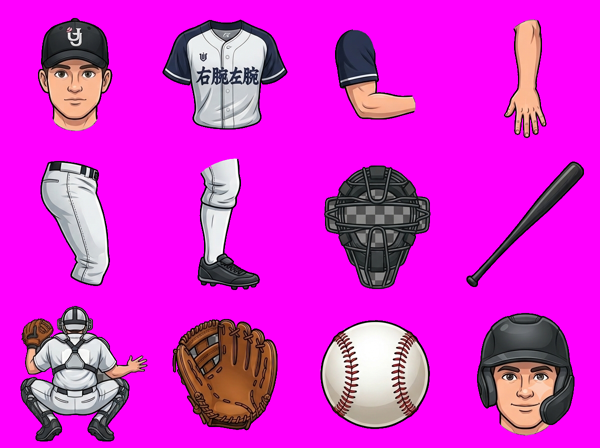
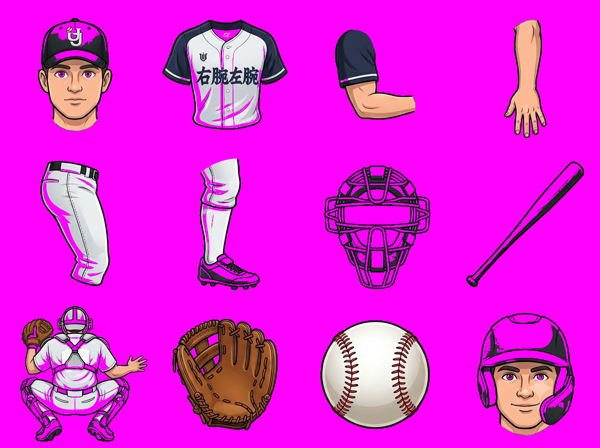
chore: 파츠 시트 파이프라인 — 배경 벗기기 · 자동 슬라이싱
제미나이는 "투명 배경 PNG" 를 달라고 하면 투명해 보이는 회색 체커보드를
그려서 준다. 알파는 전부 255 다. 그대로 쓰면 인물 뒤에 격자가 따라다닌다.

  strip.js — 테두리에서 체커보드 색만 타고 번져 들어가며 지운다.
             흰 유니폼은 검은 외곽선에 막혀서 안 지워진다.
             포수 마스크 창살처럼 둘러싸인 구멍은 따로 뚫는다.
  slice.js — 파츠 위치를 알파 연결성분으로 직접 찾는다. 격자 크기를
             가정하지 않는다 (1200x900 이라고 해놓고 896 이 왔다).

파츠 12개 좌표 확정:
  머리(모자) · 몸통 · 윗팔 · 아랫팔+손 · 허벅지 · 종아리+신발
  포수 마스크 · 배트 · 포수(뒷모습) · 글러브 · 공 · 머리(검투사 헬멧)

아직 index.html 에 넣지 않았다. mvGuy 를 관절 구조로 바꾸는 게 다음이다.

Claude-Session: https://claude.ai/code/session_019yt8Yztf8yMxy3gJquoaWz

diff --git a/art/slice.js b/art/slice.js
@@ -47,11 +47,14 @@ for(let sy=0;sy<H;sy++)for(let sx=0;sx<W;sx++){
 console.log(`덩어리 ${blobs.length}개 찾음`);
 
 /* ---- 가까운 덩어리끼리 묶는다 (신발이 다리와 떨어져 나오는 경우) ---- */
-const GAP=Math.round(Math.min(W,H)*0.035);
+/* 간격은 좁게 잡는다. 넓게 잡으면 옆 칸 파츠까지 한 덩어리로 붙는다 —
+   처음에 0.035*폭(31px)으로 잡았다가 12개를 4개로 붙여버렸다.
+   붙여야 할 것은 신발과 다리처럼 거의 닿아 있는 것뿐이다.          */
+const GAP=8;
 const near=(a,b)=>{
-  const ax2=a.x+a.w+GAP, ay2=a.y+a.h+GAP;
-  const bx2=b.x+b.w+GAP, by2=b.y+b.h+GAP;
-  return !(ax2<b.x-GAP||bx2<a.x-GAP||ay2<b.y-GAP||by2<a.y-GAP);
+  const gx=Math.max(a.x,b.x)-Math.min(a.x+a.w,b.x+b.w);   // 음수면 겹친다
+  const gy=Math.max(a.y,b.y)-Math.min(a.y+a.h,b.y+b.h);
+  return gx<=GAP && gy<=GAP;
 };
 let merged=true;
 while(merged){
@@ -80,12 +83,14 @@ rows.forEach(r=>r.items.sort((a,b)=>a.x-b.x));
 const order=[].concat(...rows.map(r=>r.items));
 
 /* ---- 이름 붙이기 (제미나이에게 준 배치 순서) ---- */
+/* 두 번째 시트에서 배치가 살짝 바뀌었다 — 2행 3번이 검정 글러브에서
+   포수 마스크로, 3행 2번이 야수용 갈색 글러브가 됐다.              */
 const KEYS=['head_cap','torso','uarm','farm',
-            'thigh','shin','glove','bat',
-            'catcher','mitt','ball','head_helm'];
+            'thigh','shin','mask','bat',
+            'catcher','glove','ball','head_helm'];
 const KO={head_cap:'머리(모자)',torso:'몸통',uarm:'윗팔',farm:'아랫팔+손',
-  thigh:'허벅지',shin:'종아리+신발',glove:'글러브',bat:'배트',
-  catcher:'포수',mitt:'미트',ball:'공',head_helm:'머리(헬멧)'};
+  thigh:'허벅지',shin:'종아리+신발',mask:'포수 마스크',bat:'배트',
+  catcher:'포수(뒷모습)',glove:'글러브',ball:'공',head_helm:'머리(헬멧)'};
 
 console.log(`\n줄 ${rows.length}개 · 줄마다 ${rows.map(r=>r.items.length).join('/')}개`);
 const out={sheet:{w:W,h:H}, parts:{}};

diff --git a/art/strip.js b/art/strip.js
@@ -60,6 +60,29 @@ while(head<tail){
   if(x>0)push(x-1,y); if(x<W-1)push(x+1,y);
   if(y>0)push(x,y-1); if(y<H-1)push(x,y+1);
 }
+/* 테두리에서 못 닿는 안쪽 구멍도 뚫는다 — 포수 마스크 창살 사이 같은 곳.
+   완전히 둘러싸여 있어서 번짐이 못 들어간다. 체커보드 색이면 배경이다. */
+let holes=0;
+for(let p=0;p<W*H;p++){ if(bg[p]||!isBg(p*4)) continue;
+  const y0=(p/W)|0, x0=p%W;
+  let h2=0,t2=0, ok=true, mem=[];
+  qx[t2]=x0; qy[t2]=y0; t2++; bg[p]=1; mem.push(p);
+  while(h2<t2){
+    const x=qx[h2],y=qy[h2]; h2++;
+    for(let k=0;k<4;k++){
+      const nx=x+(k===0?-1:k===1?1:0), ny=y+(k===2?-1:k===3?1:0);
+      if(nx<0||ny<0||nx>=W||ny>=H) continue;
+      const q=ny*W+nx;
+      if(bg[q]||!isBg(q*4)) continue;
+      bg[q]=1; mem.push(q); qx[t2]=nx; qy[t2]=ny; t2++;
+    }
+    if(t2>W*H-1){ ok=false; break; }
+  }
+  if(ok && mem.length>=25) holes+=mem.length;
+  else mem.forEach(q=>bg[q]=0);
+}
+if(holes) console.log(`안쪽 구멍 ${holes}개도 뚫었다`);
+
 let n=0; for(let p=0;p<W*H;p++) if(bg[p])n++;
 console.log(`배경으로 판정 ${n}개 (${(n/(W*H)*100).toFixed(1)}%)`);
 if(n<W*H*0.25){ console.error('❌ 배경이 너무 적게 잡혔다 — 번짐이 막혔다'); process.exit(1); }

diff --git a/art/README.md b/art/README.md
@@ -1,0 +1,46 @@
+# art/ — 캐릭터 파츠 시트
+
+`mvGuy()` 가 캔버스에 손코딩한 선화(막대인간)로 사람을 그리던 것을
+사람이 그린 그림으로 갈아끼우기 위한 작업 폴더다.
+
+## 파일
+
+| 파일 | 뭔가 |
+|---|---|
+| `sprite2-src.png` | 제미나이가 준 원본 (1200x896, **배경이 구워져 있다**) |
+| `sprite.png`      | 배경을 벗긴 것. 실제로 쓰는 것 |
+| `parts.json`      | 파츠 12개의 좌표. `slice.js` 가 만든다 |
+| `strip.js`        | 체커보드 배경 → 투명으로 벗긴다 |
+| `slice.js`        | 파츠 위치를 자동으로 찾아 `parts.json` 을 쓴다 |
+| `_check.png`      | 자홍색 배경에 얹어본 확인용. 잔털이 있으면 눈에 보인다 |
+
+## 왜 벗겨야 하나
+
+제미나이에 "투명 배경 PNG" 를 달라고 하면 **투명해 보이는 회색 체커보드를
+그려서** 준다. 알파 채널은 전부 255 다. 그대로 넣으면 인물 뒤에 회색 격자가
+따라다닌다. `strip.js` 가 테두리에서 번져 들어가며 체커보드 색만 지운다.
+포수 마스크 창살처럼 완전히 둘러싸인 구멍도 따로 뚫는다.
+
+## 다시 돌리는 법
+
+새 그림을 받으면:
+
+```
+node art/strip.js art/새그림.png art/sprite.png
+node art/slice.js art/sprite.png
+```
+
+`slice.js` 가 "조각이 12개가 아니다" 라고 하면 파츠 이름이 밀렸다는 뜻이다.
+KEYS 배열 순서와 실제 배치가 맞는지 확인해라.
+
+## 파츠를 왜 나눠 받나
+
+통짜 스프라이트로 애니메이션 프레임을 뽑으면 프레임마다 캐릭터가 미묘하게
+달라져서 덜덜 떨린다. 부위별로 받아서 **관절 회전은 코드가 만든다.**
+그러면 프레임 수가 무제한이고, 포즈를 새로 추가해도 그림이 더 안 필요하다.
+
+## 유니폼 색
+
+시트는 우리 팀(네이비 소매 + 흰 몸통)으로 그려져 있다. 상대 23팀은
+네이비 픽셀을 팀 색으로 치환해서 만든다 (오프스크린 캔버스에 한 번 만들고
+캐시). 등번호는 그림에 없다 — 선수마다 다르니 캔버스가 직접 그린다.
